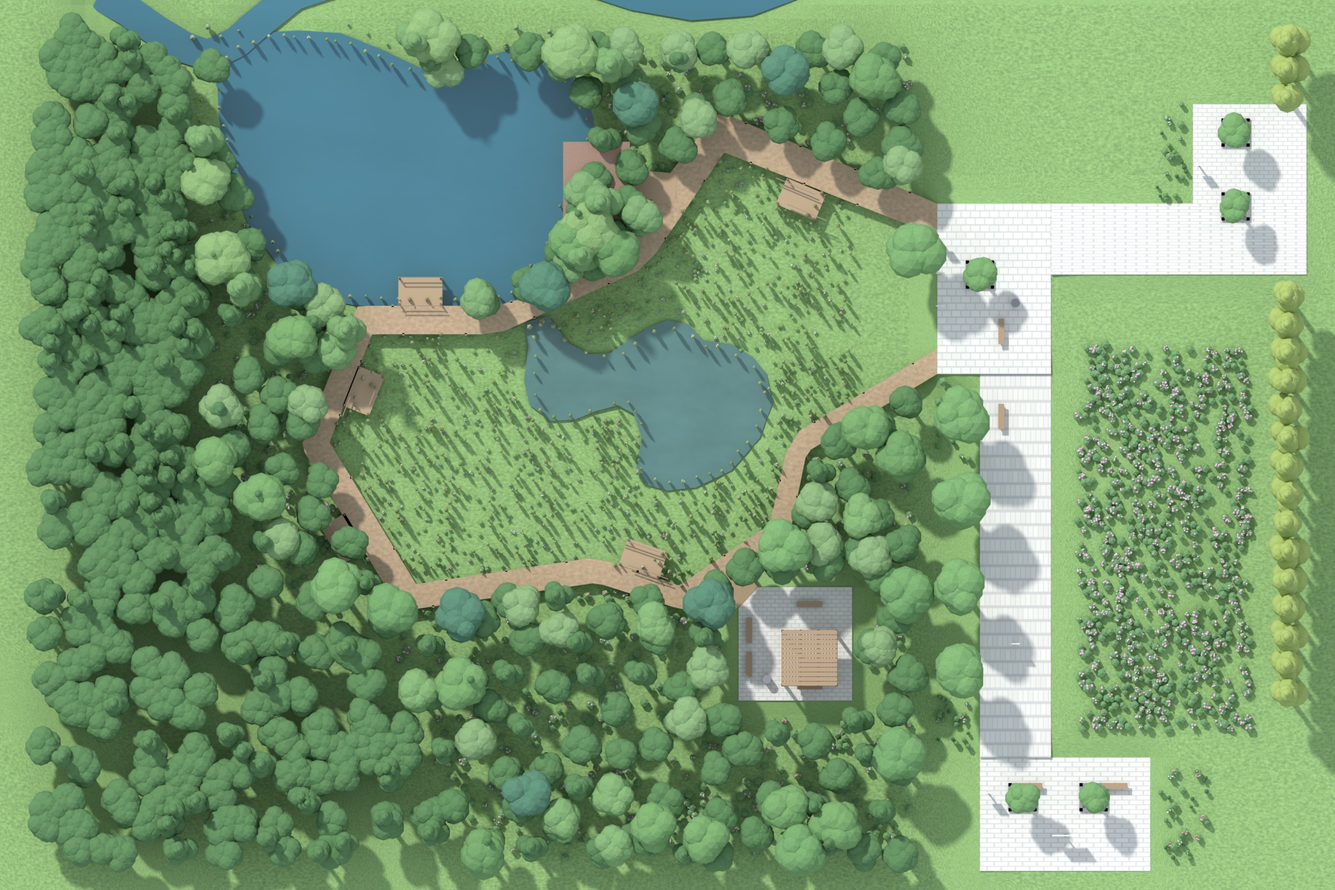
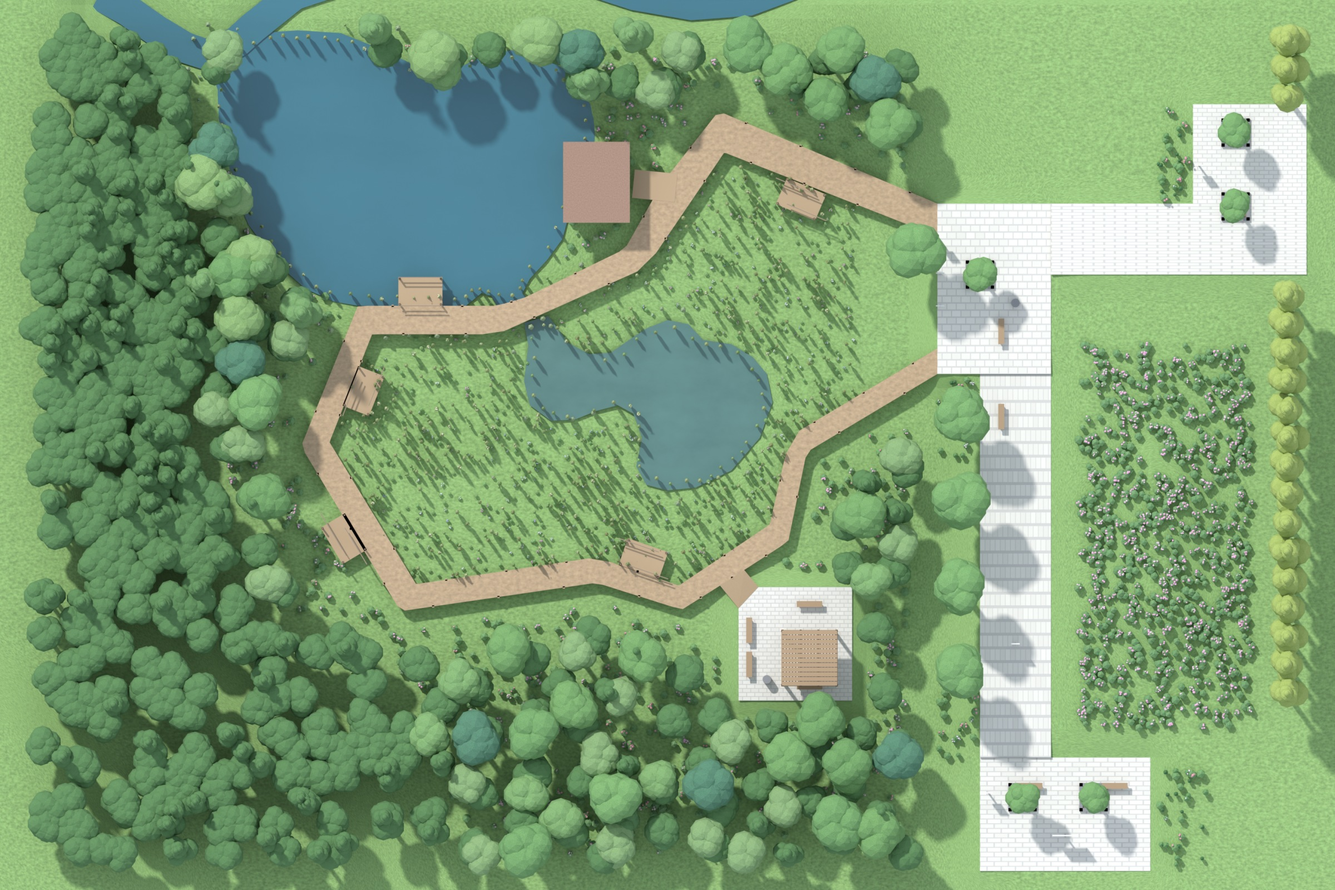
401 탭 — 관찰로·조류관찰소가 드러나는 판으로 갱신
교목을 관찰로·시설에서 3.5m 띄운 모형으로 다시 뽑았다. 실사 조감도도
같은 규칙을 프롬프트에 적어 다시 만들었다 — 관찰로 루프가 끝에서 끝까지
보이고 조류관찰소가 물가에 또렷이 선다.

축측도 25분 22초 · 평면도 14분 10초 · 조감도 3분 36초.

diff --git a/_ls_drawing_refs/401_입체평면도/content.md b/_ls_drawing_refs/401_입체평면도/content.md
@@ -305,3 +305,18 @@
 - **북동 진입광장과 동측 통로는 같은 72.2** 입니다. 다르게 두면 경계에 단차가 생겨
   포장이 두 조각으로 갈라져 보이고, 경계에 걸친 수목보호대가 반쯤 묻힙니다
 
+### 교목은 길에서 띄웁니다
+
+수목을 자리대로만 심으면 **축측도에서 수관이 관찰로와 조류관찰소를 덮습니다.**
+위에서 내려다보는 평면도에서는 멀쩡한데, 45° 로 비스듬히 보면 앞을 막습니다 —
+관찰데크 다섯도 함께 묻혔습니다.
+
+| 대상 | 띄우는 거리 |
+| --- | --- |
+| 교목 ↔ 관찰로 | 3.5m |
+| 교목 ↔ 조류관찰소 · 관찰데크 | 3.5m |
+| 관목 ↔ 관찰로 | 1.2m |
+
+관목은 가까이 둡니다 — 키가 낮아 시야를 막지 않고, 오히려 길 가장자리에 있어야
+자연스럽습니다.
+
